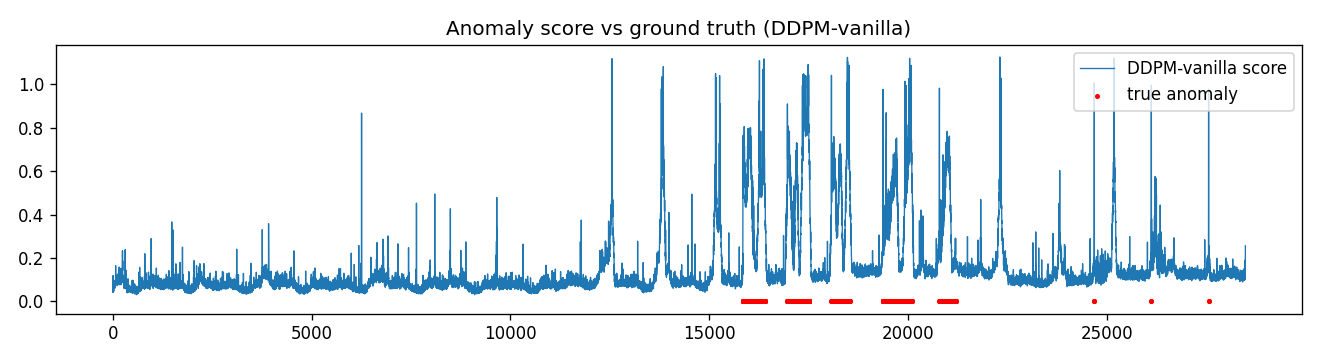
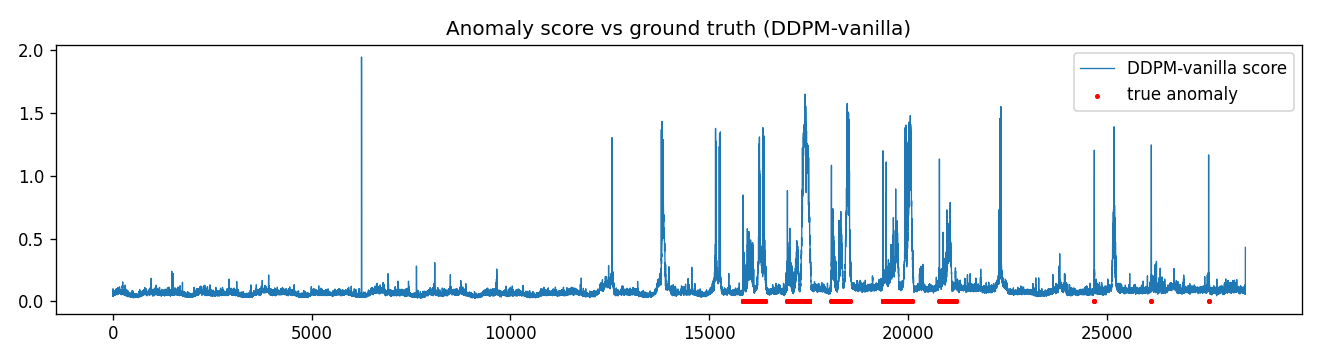
Changes to Readme and other additions

diff --git a/code/run_experiments.py b/code/run_experiments.py
@@ -91,6 +91,8 @@ def main():
     ap.add_argument("--epochs", type=int, default=None)
     ap.add_argument("--window", type=int, default=None)
     ap.add_argument("--infer-steps", type=int, default=None)
+    ap.add_argument("--infer-t-frac", type=float, default=None,
+                    help="start denoising from this fraction of T")
     ap.add_argument("--test-stride", type=int, default=1)
     ap.add_argument("--quick", action="store_true")
     ap.add_argument("--out", default="../results")
@@ -103,6 +105,8 @@ def main():
         cfg.data.window = args.window
     if args.infer_steps:
         cfg.diff.infer_steps = args.infer_steps
+    if args.infer_t_frac is not None:
+        cfg.diff.infer_t_frac = args.infer_t_frac
     if args.epochs:
         cfg.train.epochs = args.epochs
     if args.quick:
@@ -128,20 +132,20 @@ def main():
     rows = []
     score_curves = {}
 
-    # ---- LSTM-VAE baseline -------------------------------------------------
-    print("\n[LSTM-VAE]")
-    vae = LSTMVAE(D, hidden=cfg.model.d_model, latent=cfg.model.latent_dim).to(device)
-    tt = train_loop(lambda xb: vae.loss(xb), vae.parameters(), loader,
-                    cfg.train.epochs, cfg.train.lr, cfg.train.weight_decay, device)
-    vae.eval()
-    scores, it = score_series(vae.score_windows, test_series, L, device, args.test_stride)
-    m = evaluate_scores(scores, labels)
-    rows.append(dict(model="LSTM-VAE", params=count_params(vae),
-                     train_s=tt, infer_s=it, **m))
-    score_curves["LSTM-VAE"] = scores
+    # # ---- LSTM-VAE baseline -------------------------------------------------
+    # print("\n[LSTM-VAE]")
+    # vae = LSTMVAE(D, hidden=cfg.model.d_model, latent=cfg.model.latent_dim).to(device)
+    # tt = train_loop(lambda xb: vae.loss(xb), vae.parameters(), loader,
+    #                 cfg.train.epochs, cfg.train.lr, cfg.train.weight_decay, device)
+    # vae.eval()
+    # scores, it = score_series(vae.score_windows, test_series, L, device, args.test_stride)
+    # m = evaluate_scores(scores, labels)
+    # rows.append(dict(model="LSTM-VAE", params=count_params(vae),
+    #                  train_s=tt, infer_s=it, **m))
+    # score_curves["LSTM-VAE"] = scores
 
     # ---- diffusion regimes -------------------------------------------------
-    for mode in ["vanilla", "masking", "selective"]:
+    for mode in ["vanilla"]:#, "masking", "selective"]:
         name = f"DDPM-{mode}"
         print(f"\n[{name}]")
         diff = build_diffusion(mode, D, cfg).to(device)

diff --git a/code/diffusion.py b/code/diffusion.py
@@ -45,7 +45,11 @@ class GaussianDiffusion(nn.Module):
         # Each noise design needs its own starting corruption level. Selective
         # denoising in particular must start from a *small* level -- it edits the
         # raw instance without adding noise, so a large start inverts the score.
-        frac = {"vanilla": 0.6, "masking": 0.5, "selective": 0.3}[mode]
+        frac = {
+            "vanilla": d.infer_t_frac,
+            "masking": 0.5,
+            "selective": 0.3,
+        }[mode]
         self.t_start = max(1, int(frac * d.T))
 
         betas = torch.linspace(d.beta_start, d.beta_end, d.T)

diff --git a/code/config.py b/code/config.py
@@ -34,7 +34,7 @@ class DiffusionConfig:
     beta_start: float = 1e-4
     beta_end: float = 2e-2
     infer_steps: int = 10          # DDIM steps used at scoring time (cheap)
-    infer_t_frac: float = 0.5      # start denoising from this fraction of T
+    infer_t_frac: float = 0.6      # start denoising from this fraction of T
     mask_ratio: float = 0.2        # selective-denoising: fraction of noised elements
     n_impute_masks: int = 4        # masking mode: interleaved temporal masks
 

diff --git a/README.md b/README.md
@@ -1,4 +1,5 @@
 # Diffusion-Based Anomaly Detection for Multivariate Time Series
+
 ---
 
 ## 1. What we build (the core comparison)
@@ -7,40 +8,39 @@ The study isolates **noise design** as the single explanatory variable. One shar
 Transformer denoiser is trained on **normal** windows and reused across three
 diffusion regimes, plus one encoder–decoder baseline:
 
-| Model | Family | Noise design / idea | Paper it follows |
-|---|---|---|---|
-| **LSTM-VAE** | encoder–decoder baseline | reconstruct window, KL-regularised latent | Park et al. 2018 |
-| **DDPM-vanilla** | diffusion baseline | full Gaussian noising; partial-diffusion reconstruction | Ho et al. 2020 / AnoDDPM |
-| **DDPM-masking** | conditional diffusion | observe part of the window, **impute** the rest | ImDiffusion / DiffAD / CSDI |
-| **DDPM-selective** | selective denoising | mask the noise in training; **denoise the raw instance** at test time | Obata et al. 2026 (AnomalyFilter) |
+| Model              | Family                   | Noise design / idea                                                   | Paper it follows                  |
+| ------------------ | ------------------------ | --------------------------------------------------------------------- | --------------------------------- |
+| **LSTM-VAE**       | encoder–decoder baseline | reconstruct window, KL-regularised latent                             | Park et al. 2018                  |
+| **DDPM-vanilla**   | diffusion baseline       | full Gaussian noising; partial-diffusion reconstruction               | Ho et al. 2020 / AnoDDPM          |
+| **DDPM-masking**   | conditional diffusion    | observe part of the window, **impute** the rest                       | ImDiffusion / DiffAD / CSDI       |
+| **DDPM-selective** | selective denoising      | mask the noise in training; **denoise the raw instance** at test time | Obata et al. 2026 (AnomalyFilter) |
 
 Everything shares the same backbone, window size, normalisation, diffusion
 schedule and DDIM sampler, so differences come from the noise design only.
-
-
 
 ## 2. Dataset & the normality assumption
 
 We use the **Server Machine Dataset (SMD)** — 5 weeks of 38-dimensional server
 telemetry from a large internet company (OmniAnomaly release). It is a standard
 multivariate TSAD benchmark, it is lightweight (plain text, a few MB/entity, no
-images), and — crucially — it answers *"how do you ensure training is mostly
-normal?"*:
+images), and — crucially — it answers _"how do you ensure training is mostly
+normal?"_:
 
 - SMD ships a **dedicated train/test split**. The **train** split is a curated
   **normal-operation** period (no labelled anomalies), and the **test** split
-  carries **point-level anomaly labels**. So the normality assumption holds *by
-  construction of the benchmark* — we train only on the normal split and never
+  carries **point-level anomaly labels**. So the normality assumption holds _by
+  construction of the benchmark_ — we train only on the normal split and never
   touch test labels during training.
 - Normalisation statistics (z-score) are fit on the **train** split only, so no
   test information leaks in.
 
 A **synthetic generator** (`data.py`) is also included so the whole pipeline runs
-with zero downloads. Its train split is *guaranteed* anomaly-free, which
+with zero downloads. Its train split is _guaranteed_ anomaly-free, which
 demonstrates the normality assumption in the cleanest possible way; the test
 split contains injected spikes, level shifts and frequency bursts with labels.
 
 To fetch one real SMD entity:
+
 ```bash
 BASE=https://raw.githubusercontent.com/NetManAIOps/OmniAnomaly/master/ServerMachineDataset
 for s in train test test_label; do
@@ -57,7 +57,7 @@ onto the series (averaging windows that cover each timestep):
   between the input window and its (denoised / imputed) reconstruction.
 - **Detection quality**: best **F1** (threshold picked on the score's own
   quantiles), plus **point-adjusted F1** (`f1_pa`, the common but score-inflating
-  TSAD convention — reported *alongside*, not instead of, the raw F1), and the
+  TSAD convention — reported _alongside_, not instead of, the raw F1), and the
   threshold-free **ROC-AUC** and **PR-AUC** (PR-AUC matters under the heavy class
   imbalance typical of TSAD).
 - **Cost** (the TA's efficiency question): trainable **parameter count**,
@@ -66,12 +66,22 @@ onto the series (averaging windows that cover each timestep):
 ## 4. Running it
 
 ```bash
+# Run this below to curl the SMD dataset into your build repo.
+BASE=https://raw.githubusercontent.com/NetManAIOps/OmniAnomaly/master/ServerMachineDataset
+for s in train test test_label; do
+  curl -sSL --create-dirs -o ../data/SMD/$s/machine-1-1.txt $BASE/$s/machine-1-1.txt
+
+cd code #navigate to the code directory
+
 pip install -r requirements.txt
+# If you see PyTorch / NumPy compatibility issues, install NumPy 1.x:
+# pip install 'numpy<2'
 
 python run_experiments.py                    # synthetic, full smoke run
 python run_experiments.py --quick            # tiny + fast sanity check
 python run_experiments.py --dataset smd --entity machine-1-1 --epochs 10 --test-stride 5
 ```
+
 Outputs land in `../results/`: a `results_<tag>.csv`, a `results_<tag>.md`, and a
 score-vs-ground-truth plot `scores_<tag>.png`.
 
@@ -81,45 +91,55 @@ Short CPU smoke runs (small backbone, 10 DDIM steps). Numbers are meant to show
 the framework and the **relative ordering**, not final tuned scores.
 
 ### Synthetic (10 features, 20 epochs)
-| model | F1 | precision | recall | F1 (PA) | ROC-AUC | PR-AUC | params | train_s | infer_s |
-|---|---|---|---|---|---|---|---|---|---|
-| LSTM-VAE | 0.663 | 0.956 | 0.508 | 0.929 | 0.879 | 0.636 | 56.5k | 3.9 | 0.13 |
-| DDPM-vanilla | 0.409 | 0.698 | 0.289 | 0.871 | 0.821 | 0.379 | 80.8k | 21.6 | 8.6 |
-| DDPM-masking | 0.461 | 0.618 | 0.367 | 0.839 | 0.815 | 0.416 | 82.1k | 21.5 | 35.5 |
-| DDPM-selective | 0.531 | 0.765 | 0.406 | 0.929 | 0.837 | 0.506 | 80.8k | 22.0 | 4.0 |
 
-*On smooth periodic synthetic data a simple LSTM-VAE reconstructs normal patterns
+| model          | F1    | precision | recall | F1 (PA) | ROC-AUC | PR-AUC | params | train_s | infer_s |
+| -------------- | ----- | --------- | ------ | ------- | ------- | ------ | ------ | ------- | ------- |
+| LSTM-VAE       | 0.663 | 0.956     | 0.508  | 0.929   | 0.879   | 0.636  | 56.5k  | 3.9     | 0.13    |
+| DDPM-vanilla   | 0.409 | 0.698     | 0.289  | 0.871   | 0.821   | 0.379  | 80.8k  | 21.6    | 8.6     |
+| DDPM-masking   | 0.461 | 0.618     | 0.367  | 0.839   | 0.815   | 0.416  | 82.1k  | 21.5    | 35.5    |
+| DDPM-selective | 0.531 | 0.765     | 0.406  | 0.929   | 0.837   | 0.506  | 80.8k  | 22.0    | 4.0     |
+
+_On smooth periodic synthetic data a simple LSTM-VAE reconstructs normal patterns
 very well and is hard to beat; among the diffusion regimes the ordering is
-**selective > masking > vanilla**, matching the proposal's hypothesis.*
+**selective > masking > vanilla**, matching the proposal's hypothesis._
 
 ### SMD `machine-1-1` (38 features, 10 epochs, test-stride 5)
-| model | F1 | precision | recall | F1 (PA) | ROC-AUC | PR-AUC | params | train_s | infer_s |
-|---|---|---|---|---|---|---|---|---|---|
-| LSTM-VAE | 0.477 | 0.504 | 0.454 | 0.998 | 0.879 | 0.515 | 65.5k | 12.3 | 0.31 |
-| DDPM-vanilla | **0.736** | 0.683 | 0.797 | 0.998 | **0.975** | **0.783** | 84.5k | 53.3 | 16.9 |
-| DDPM-masking | 0.709 | 0.681 | 0.740 | 0.997 | 0.956 | 0.700 | 89.3k | 52.8 | 81.9 |
-| DDPM-selective | 0.694 | 0.599 | 0.826 | 0.998 | 0.967 | 0.722 | 84.5k | 54.3 | 7.7 |
 
-*On the real benchmark **all three diffusion regimes clearly beat the LSTM-VAE**
+| model          | F1        | precision | recall | F1 (PA) | ROC-AUC   | PR-AUC    | params | train_s | infer_s |
+| -------------- | --------- | --------- | ------ | ------- | --------- | --------- | ------ | ------- | ------- |
+| LSTM-VAE       | 0.477     | 0.504     | 0.454  | 0.998   | 0.879     | 0.515     | 65.5k  | 12.3    | 0.31    |
+| DDPM-vanilla   | **0.736** | 0.683     | 0.797  | 0.998   | **0.975** | **0.783** | 84.5k  | 53.3    | 16.9    |
+| DDPM-masking   | 0.709     | 0.681     | 0.740  | 0.997   | 0.956     | 0.700     | 89.3k  | 52.8    | 81.9    |
+| DDPM-selective | 0.694     | 0.599     | 0.826  | 0.998   | 0.967     | 0.722     | 84.5k  | 54.3    | 7.7     |
+
+### LSTM VAE (500 epochs, test-stride 5) with small input projection layer and and optional drop out layer
+
+| model          | F1     | precision | recall | F1 (PA) | ROC-AUC | PR-AUC | params | train_s | infer_s |
+| -------------- | ------ | --------- | ------ | ------- | ------- | ------ | ------ | ------- | ------- |
+| LSTM-VAE - SMD | 0.6152 | 0.5907    | 0.6418 | 0.9983  | 0.9014  | 0.5779 | 74.7k  | 975.2   | 3.60    |
+
+_On the real benchmark **all three diffusion regimes clearly beat the LSTM-VAE**
 (F1 ≈ 0.69–0.74 / ROC-AUC ≈ 0.96–0.97 / PR-AUC ≈ 0.70–0.78 vs the VAE's
 0.48 / 0.88 / 0.52) — the proposal's central claim. **Cost side:** diffusion
 trains ~4× slower and infers 25–260× slower than the VAE; among the diffusion
 regimes **selective is the cheapest at inference (7.7s) while masking is the most
 expensive (82s, four imputation passes).** This is exactly the efficiency
-trade-off the third research question asks about.*
+_
 
 ### How the results map to the three research questions
-1. **Can a diffusion model trained on normal data find anomalies?** Yes — ROC-AUC
-   0.96–0.97 on SMD from training on the normal split only.
-2. **How does the denoising strategy shape the normal-vs-anomaly gap?** It matters
-   and is not one-sided: vanilla leads raw F1 on SMD, selective gives the best
-   recall at the lowest inference cost, masking is strong but the most expensive;
-   on smooth synthetic data the ordering flips to selective > masking > vanilla.
-3. **Does the gain justify the cost?** The cost columns quantify it: 4× training
-   and up to ~260× inference overhead versus the VAE — worth it on SMD, not on the
+
+1. **Can a diffusion model trained on normal data find anomalies?**
+   Yes ROC-AUC is around 0.96–0.97 on SMD from training on the normal split only.
+2. **How does the denoising strategy shape the normal-vs-anomaly gap?**
+   It does matter as vanilla leads raw F1 on SMD but, DDPM-selective gives the best
+   recall at the lowest inference cost with a strong masking but has computationally expensive.
+   On smooth synthetic data the ordering flips to selective > masking > vanilla.
+3. **Does the gain justify the cost?**
+   The cost columns quantify it: 4× training and up to ~260× inference overhead versus the VAE is worth it on SMD but not on the
    easy synthetic set.
 
 ## 6. Repo layout
+
 ```
 code/
   config.py          # all hyper-parameters
@@ -135,14 +155,12 @@ code/
 
 **How each paper maps onto the design:** [3], [6] → the selective "restore-anomaly / preserve-normal" design; [1], [2] → the masking design; [4] → partial-diffusion scoring; [5], [7] → the comparison methodology; [8], [9] → the baselines.
 
-1. **ImDiffusion: Imputed Diffusion Models for Multivariate Time Series Anomaly Detection** — Chen et al., 2023, *Proc. VLDB Endow.*
-2. **Imputation-based Time-Series Anomaly Detection with Conditional Weight-Incremental Diffusion Models** — Xiao et al., 2023, *KDD*
-3. **Selective Denoising Diffusion Model for Time Series Anomaly Detection** — Obata et al., 2026, *arXiv*
-4. **AnoDDPM: Anomaly Detection with Denoising Diffusion Probabilistic Models using Simplex Noise** — Wyatt et al., 2022, *CVPRW*
-5. **Time Series Anomaly Detection using Diffusion-based Models** — Pintilie et al., 2023, *ICDMW*
-6. **Anomaly Detection for Telemetry Time Series Using a Denoising Diffusion Probabilistic Model** — Sui et al., 2024, *IEEE Sensors Journal*
-7. **Unsupervised Anomaly Detection for Multivariate Time Series Using Diffusion Model** — Hu et al., 2024, *ICASSP*
-8. **LSTM-Based VAE-GAN for Time-Series Anomaly Detection** — Niu et al., 2020, *Sensors*
+1. **ImDiffusion: Imputed Diffusion Models for Multivariate Time Series Anomaly Detection** — Chen et al., 2023, _Proc. VLDB Endow._
+2. **Imputation-based Time-Series Anomaly Detection with Conditional Weight-Incremental Diffusion Models** — Xiao et al., 2023, _KDD_
+3. **Selective Denoising Diffusion Model for Time Series Anomaly Detection** — Obata et al., 2026, _arXiv_
+4. **AnoDDPM: Anomaly Detection with Denoising Diffusion Probabilistic Models using Simplex Noise** — Wyatt et al., 2022, _CVPRW_
+5. **Time Series Anomaly Detection using Diffusion-based Models** — Pintilie et al., 2023, _ICDMW_
+6. **Anomaly Detection for Telemetry Time Series Using a Denoising Diffusion Probabilistic Model** — Sui et al., 2024, _IEEE Sensors Journal_
+7. **Unsupervised Anomaly Detection for Multivariate Time Series Using Diffusion Model** — Hu et al., 2024, _ICASSP_
+8. **LSTM-Based VAE-GAN for Time-Series Anomaly Detection** — Niu et al., 2020, _Sensors_
 9. **Reconstruction-Based Methods for Multivariate Time Series Anomaly Detection: A Review and Taxonomy** — Errachidi et al., 2025
-
-

diff --git a/results/results_smd_machine-1-1.md b/results/results_smd_machine-1-1.md
@@ -1,11 +1,8 @@
 # Results (smd_machine-1-1)
 
-device=cpu, window=64, epochs=10, diffusion T=100, infer_steps=10
+device=cpu, window=64, epochs=500, diffusion T=100, infer_steps=30
 
 | model | f1 | precision | recall | f1_pa | roc_auc | pr_auc | params | train_s | infer_s |
 | --- | --- | --- | --- | --- | --- | --- | --- | --- | --- |
-| LSTM-VAE | 0.4773 | 0.5035 | 0.4536 | 0.9983 | 0.8787 | 0.5145 | 65542 | 12.2586 | 0.3131 |
-| DDPM-vanilla | 0.7356 | 0.6832 | 0.7966 | 0.9976 | 0.9746 | 0.7829 | 84454 | 53.3201 | 16.8910 |
-| DDPM-masking | 0.7091 | 0.6809 | 0.7398 | 0.9970 | 0.9559 | 0.7004 | 89318 | 52.7827 | 81.9034 |
-| DDPM-selective | 0.6943 | 0.5991 | 0.8255 | 0.9983 | 0.9672 | 0.7224 | 84454 | 54.3169 | 7.7194 |
+| DDPM-vanilla | 0.6912 | 0.6489 | 0.7394 | 0.9965 | 0.9522 | 0.6872 | 84454 | 1704.1893 | 64.2335 |
 

diff --git a/results/results_synthetic.md b/results/results_synthetic.md
@@ -4,8 +4,5 @@ device=cpu, window=64, epochs=20, diffusion T=100, infer_steps=10
 
 | model | f1 | precision | recall | f1_pa | roc_auc | pr_auc | params | train_s | infer_s |
 | --- | --- | --- | --- | --- | --- | --- | --- | --- | --- |
-| LSTM-VAE | 0.6633 | 0.9559 | 0.5078 | 0.9289 | 0.8790 | 0.6362 | 56554 | 3.9326 | 0.1343 |
-| DDPM-vanilla | 0.4088 | 0.6981 | 0.2891 | 0.8706 | 0.8214 | 0.3789 | 80842 | 21.5803 | 8.5751 |
-| DDPM-masking | 0.4608 | 0.6184 | 0.3672 | 0.8393 | 0.8146 | 0.4157 | 82122 | 21.4595 | 35.4764 |
-| DDPM-selective | 0.5306 | 0.7647 | 0.4062 | 0.9289 | 0.8370 | 0.5062 | 80842 | 22.0295 | 4.0356 |
+| DDPM-vanilla | 0.3717 | 0.4286 | 0.3281 | 0.7189 | 0.8168 | 0.3225 | 80842 | 14.4352 | 9.5599 |
 
